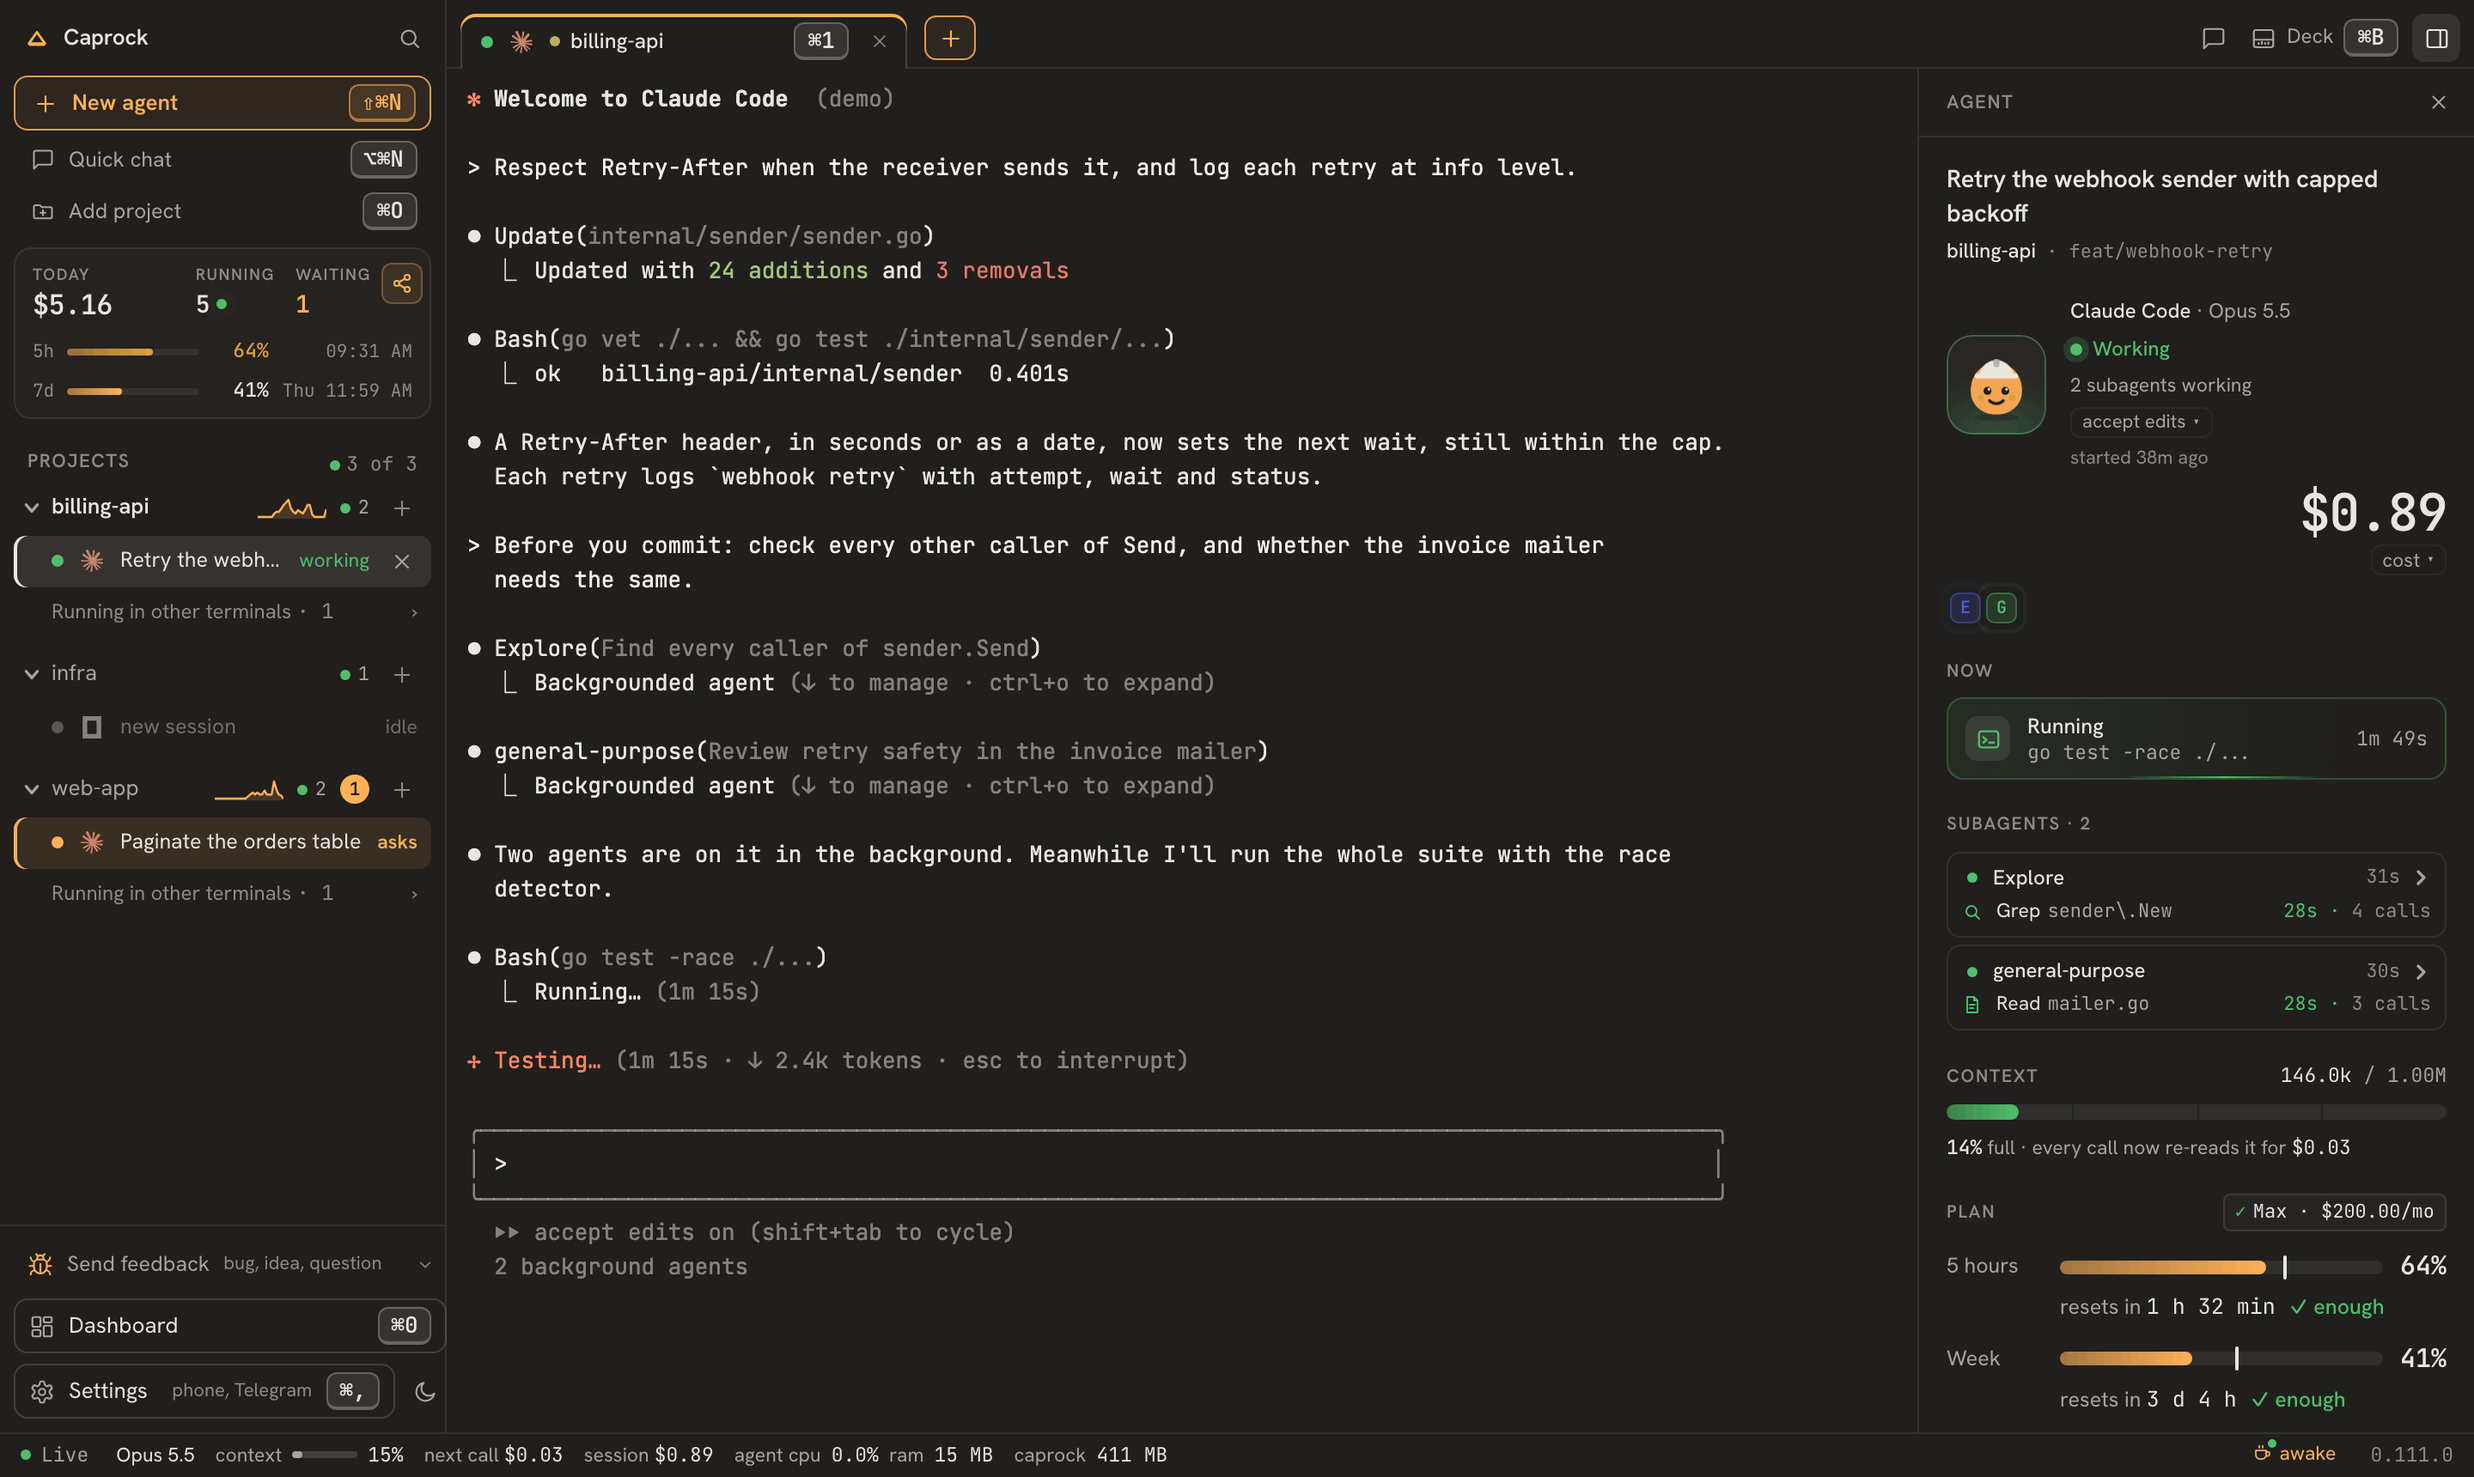
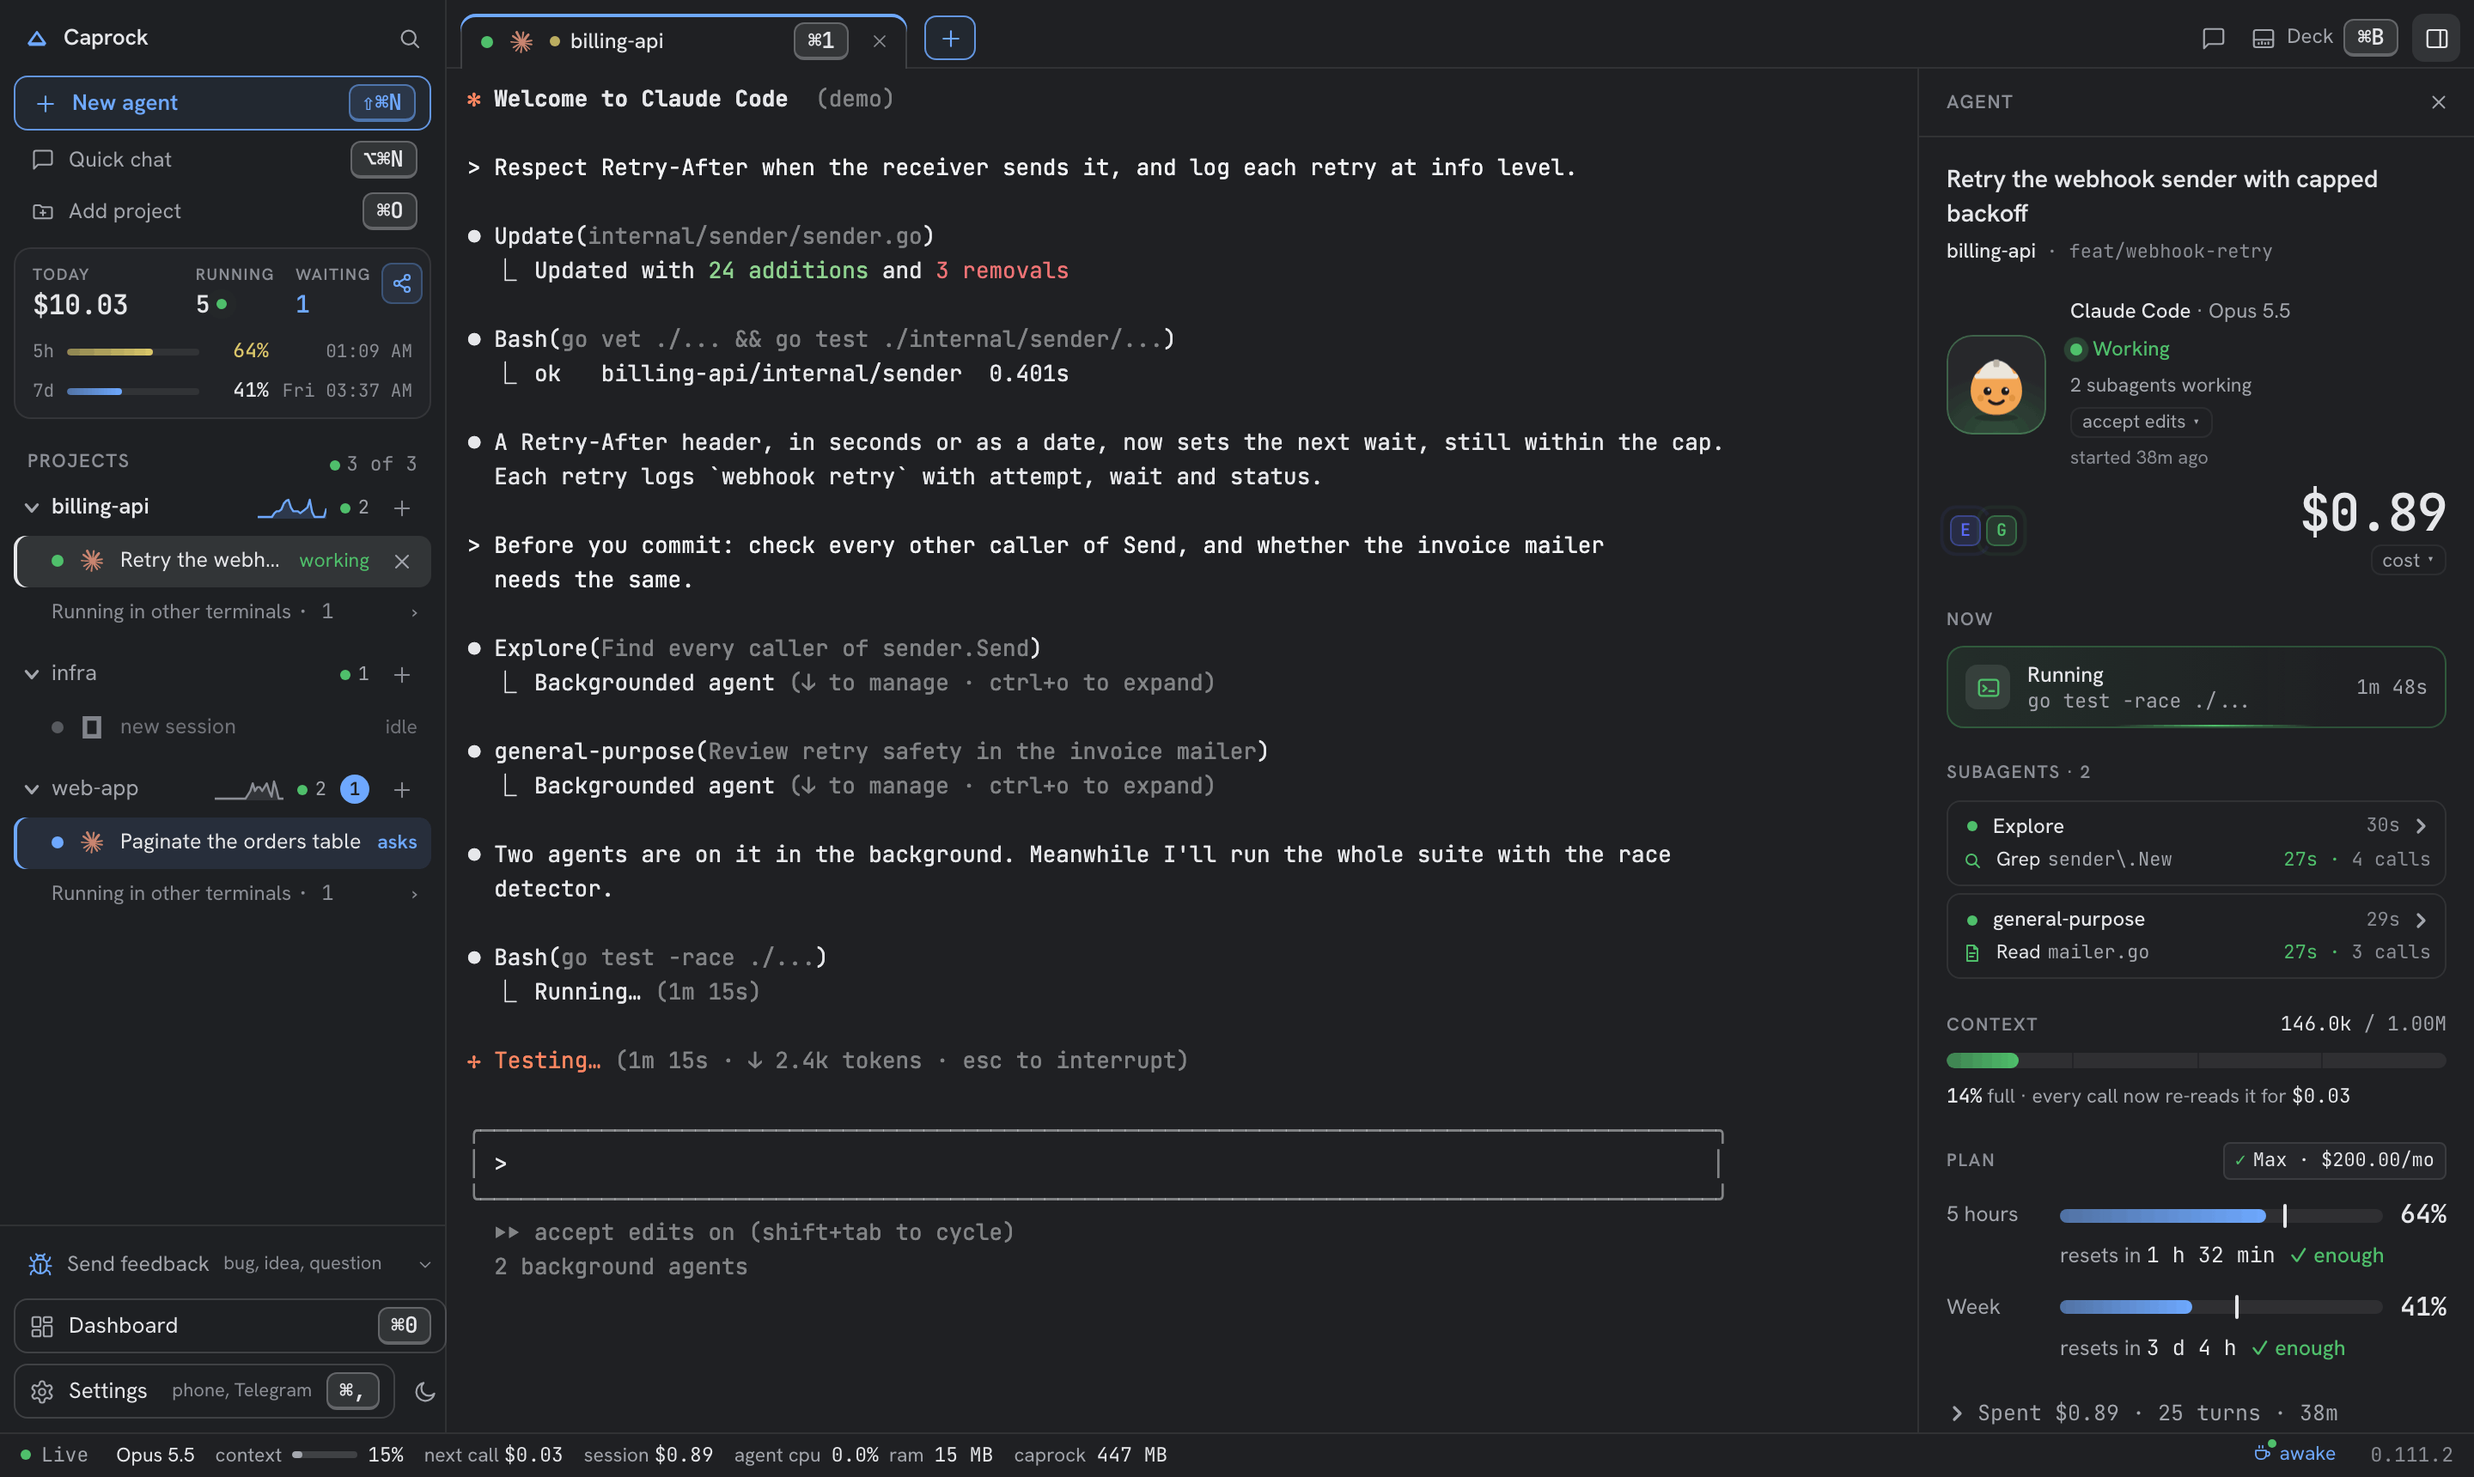
docs(shots): Dark Cold and Light Cold, the palettes caprock.dev shows
The README hero and docs/app.md's shot-app retaken on the site's demo stand
(caprock-web scripts/demo/app.sh) in Dark Cold and Light Cold. shots.py and
feature-shots.py now set those palettes instead of Dark Warm and Book, and
feature-shots.py answers the week's share prompt, which landed over the
Tools panel. The release badge takes the blue accent.

diff --git a/scripts/feature-shots.py b/scripts/feature-shots.py
@@ -194,7 +194,7 @@ BANNERS = """
     localStorage.setItem('caprock.update.dismissed', 'offer');
     const t = Date.now();
     localStorage.setItem('caprock-prompts', JSON.stringify({
-      'premium-banner': t, 'premium-hint': t, 'share-month': t,
+      'premium-banner': t, 'premium-hint': t, 'share-month': t, 'share-week': t,
     }));
   } catch (e) {}
 """
@@ -275,10 +275,14 @@ def shoot(ws, spec, theme):
         rpc(ws, "Page.navigate", {"url": f"{BASE}/#/{route}"})
         time.sleep(0.8)
         evaluate(ws, BANNERS)
-        evaluate(ws, "localStorage.setItem('caprock-theme','%s');"
+        # Dark Cold and Light Cold, the palettes caprock.dev shows (owner,
+        # 2026-10-12); the side alone would load Dark Warm or Book.
+        mode = "light-cold" if theme == "light" else "dark-cold"
+        evaluate(ws, "localStorage.setItem('caprock-theme-mode','%s');"
+                     "localStorage.setItem('caprock-theme','%s');"
                      "localStorage.setItem('caprock-glance-open','1');"
                      "localStorage.setItem('caprock-glance-view','charts');"
-                     "location.reload()" % theme)
+                     "location.reload()" % (mode, theme))
         # Wait for real content: no skeletons, no "reading", the needle there.
         needle = spec.get("needle") or ""
         for _ in range(240):

diff --git a/scripts/shots.py b/scripts/shots.py
@@ -486,9 +486,9 @@ def main():
                 # boots. Clicking the header's theme button used to cycle light
                 # and dark; since 0.108.0 it opens a seven-palette menu, so the
                 # click opened the menu and the light pass never turned light.
-                # Dark Warm and Book are what each side shows on a fresh
-                # install (DEFAULT_DARK and DEFAULT_LIGHT in ui/src/lib/themes.ts).
-                mode = "book" if theme == "light" else "dark-warm"
+                # Dark Cold and Light Cold, the palettes caprock.dev shows
+                # (owner, 2026-10-12), so the docs and the site match.
+                mode = "light-cold" if theme == "light" else "dark-cold"
                 evaluate(ws, "try { localStorage.setItem('caprock-theme-mode', '%s');"
                              " localStorage.setItem('caprock-theme', '%s') } catch (e) {}" % (mode, theme))
                 # Navigating to the same document with a different hash does

diff --git a/README.md b/README.md
@@ -9,7 +9,7 @@
 
 *The desktop app and a paired phone, with demo projects and a demo session.*
 
-[![release](https://img.shields.io/github/v/release/dspv/caprock?color=feb157)](https://github.com/dspv/caprock/releases)
+[![release](https://img.shields.io/github/v/release/dspv/caprock?color=6ea8fe)](https://github.com/dspv/caprock/releases)
 [![license](https://img.shields.io/badge/license-Apache--2.0-blue.svg)](LICENSE)
 [![CI](https://github.com/dspv/caprock/actions/workflows/ci.yml/badge.svg)](https://github.com/dspv/caprock/actions/workflows/ci.yml)
 ![platform](https://img.shields.io/badge/macOS%20·%20Linux%20·%20Windows-informational)
